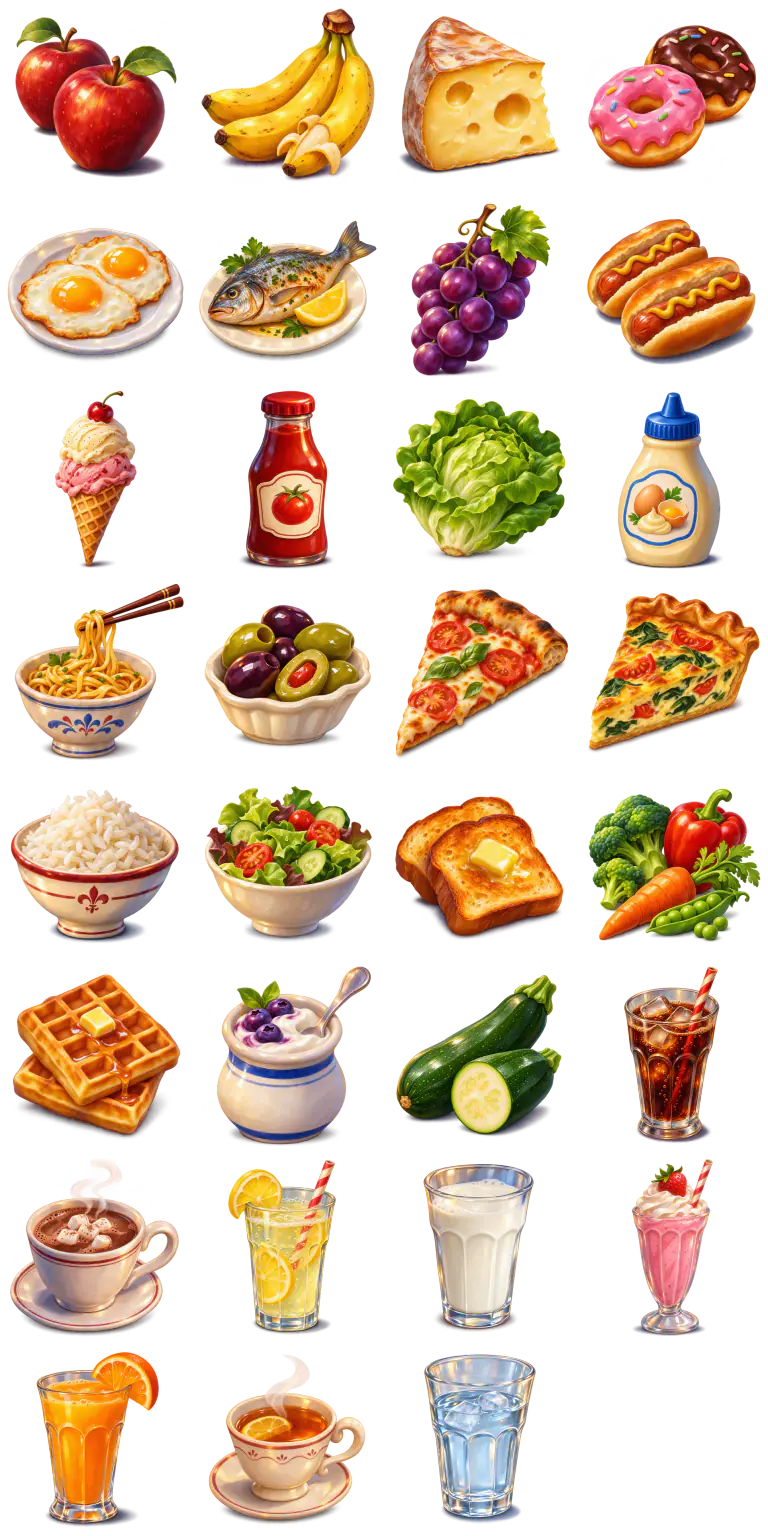
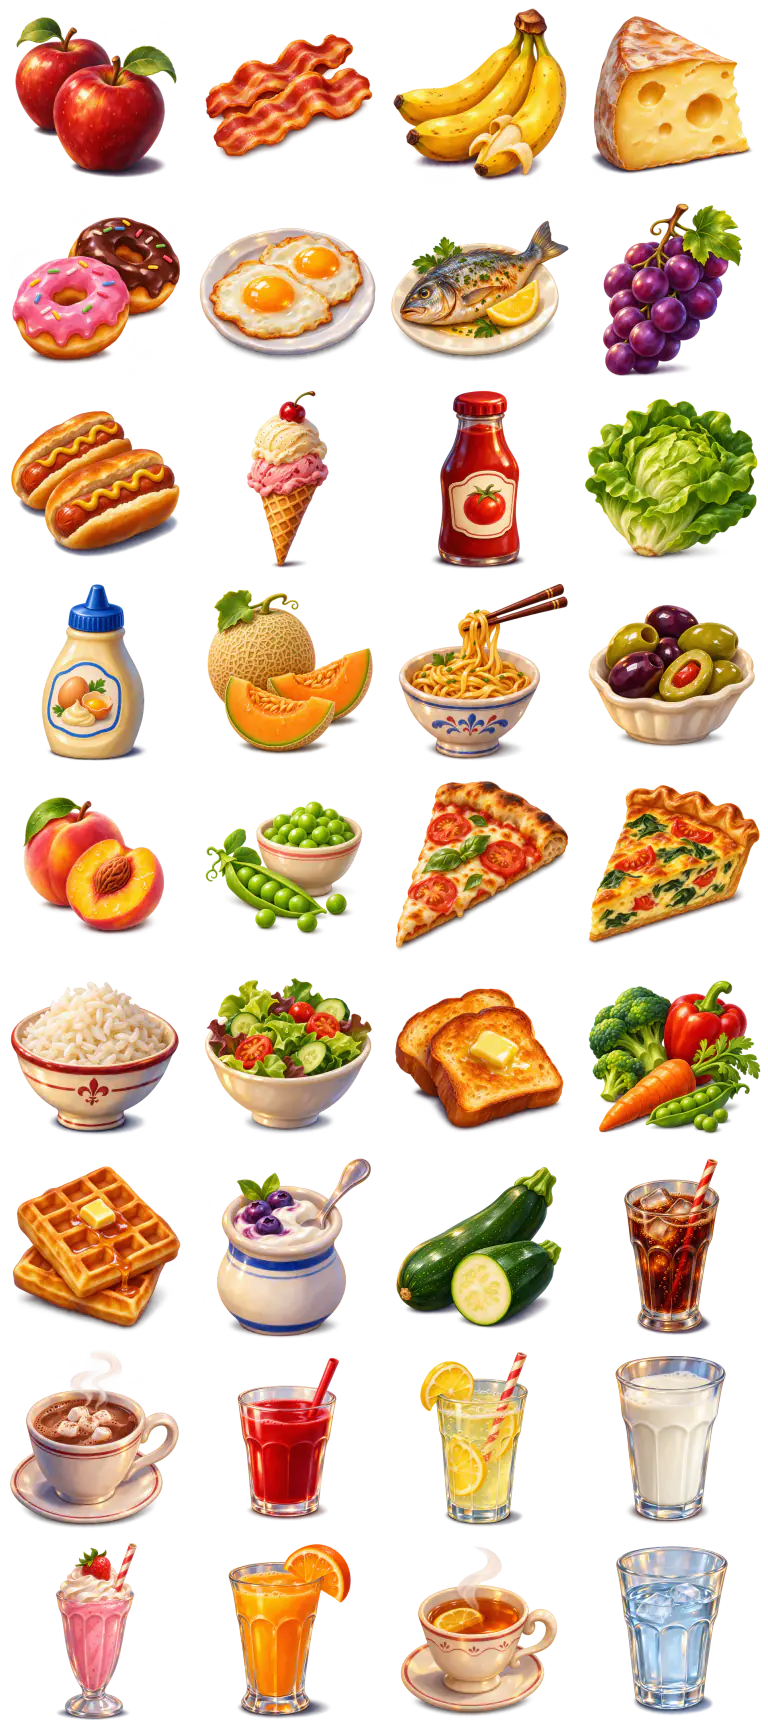
Add selectable Halloween menu section

diff --git a/src/utils/generateOrder.ts b/src/utils/generateOrder.ts
@@ -1,6 +1,20 @@
-import { DRINKS, FOOD, type MenuItem } from '../data/menu'
+import { DRINKS, EXTRA_SECTIONS, FOOD, type MenuItem, type SectionId } from '../data/menu'
 
 export type Order = { food: MenuItem[]; drink: MenuItem }
+
+export function menuForSections(sections: readonly SectionId[]) {
+  const food = [...FOOD]
+  const drinks = [...DRINKS]
+  for (const section of sections) {
+    for (const item of EXTRA_SECTIONS[section].food) {
+      if (!food.some(existing => existing.id === item.id)) food.push(item)
+    }
+    for (const item of EXTRA_SECTIONS[section].drinks) {
+      if (!drinks.some(existing => existing.id === item.id)) drinks.push(item)
+    }
+  }
+  return { food, drinks }
+}
 
 function shuffled<T>(items: readonly T[], random: () => number): T[] {
   const copy = [...items]
@@ -15,15 +29,31 @@ function signature(order: Order): string {
   return [...order.food.map(item => item.id).sort(), order.drink.id].join('|')
 }
 
-export function generateOrder(previous?: Order | null, random: () => number = Math.random): Order {
+export function generateOrder(previous?: Order | null, random: () => number = Math.random, sections: readonly SectionId[] = []): Order {
+  const menu = menuForSections(sections)
   const count = 2 + Math.floor(random() * 3)
-  const food = shuffled(FOOD, random).slice(0, count)
-  let drink = shuffled(DRINKS, random)[0]
+  const food = shuffled(menu.food, random).slice(0, count)
+  let drink = shuffled(menu.drinks, random)[0]
+  const halloweenFood = sections.includes('halloween')
+    ? EXTRA_SECTIONS.halloween.food.filter(item => !FOOD.some(base => base.id === item.id))
+    : []
+  const halloweenDrinks = sections.includes('halloween') ? EXTRA_SECTIONS.halloween.drinks : []
+
+  if (halloweenFood.length && !food.some(item => halloweenFood.some(extra => extra.id === item.id)) &&
+      !halloweenDrinks.some(item => item.id === drink.id)) {
+    const featured = shuffled([...halloweenFood, ...halloweenDrinks], random)[0]
+    if (featured.kind === 'drink') drink = featured
+    else food[0] = featured
+  }
   const order = { food, drink }
 
   // A matching selection is rare, but even then the next press must feel new.
   if (previous && signature(order) === signature(previous)) {
-    drink = shuffled(DRINKS.filter(item => item.id !== previous.drink.id), random)[0]
+    if (halloweenFood.length && !food.some(item => halloweenFood.some(extra => extra.id === item.id))) {
+      food[0] = halloweenFood[0]
+    } else {
+      drink = shuffled(menu.drinks.filter(item => item.id !== previous.drink.id), random)[0]
+    }
   }
   return { food, drink }
 }

diff --git a/src/App.css b/src/App.css
@@ -147,7 +147,15 @@ button { font: inherit; }
 }
 
 .order-item__picture { position: relative; width: 100%; max-width: 160px; aspect-ratio: 1; overflow: hidden; }
-.order-item__picture img { position: absolute; display: block; width: 400%; height: 800%; max-width: none; left: calc(-100% * var(--atlas-column)); top: calc(-100% * var(--atlas-row)); }
+.order-item__picture img { position: absolute; display: block; width: calc(100% * var(--atlas-columns)); height: calc(100% * var(--atlas-rows)); max-width: none; left: calc(-100% * var(--atlas-column)); top: calc(-100% * var(--atlas-row)); }
+
+.section-picker { display: flex; align-items: center; justify-content: center; flex-wrap: wrap; gap: 12px; }
+.section-picker__label { color: #fff4d9; font-size: 13px; font-weight: 800; letter-spacing: .14em; text-shadow: 0 2px 4px #182034; }
+.section-picker__button { min-height: 42px; padding: 7px 17px; display: inline-flex; align-items: center; gap: 10px; border: 2px solid #e9bc80; border-radius: 999px; background: #34243e; color: #fff5de; box-shadow: 0 4px 0 #1b1528; font: 800 16px Georgia, serif; letter-spacing: .09em; cursor: pointer; }
+.section-picker__button span { color: #f3b469; }
+.section-picker__button[aria-pressed="true"] { border-color: #ffe1a7; background: #a64b2d; box-shadow: 0 4px 0 #61281f, 0 0 0 3px rgba(255, 214, 147, .22); }
+.section-picker__button:hover { filter: brightness(1.14); }
+.section-picker__button:focus-visible { outline: 3px solid #fff5d0; outline-offset: 4px; }
 
 .order-action { width: 100%; display: flex; align-items: center; justify-content: center; gap: 25px; }
 .order-action__line { width: min(18vw, 210px); height: 1px; background: linear-gradient(90deg, transparent, #e1bc77, transparent); }
@@ -187,7 +195,7 @@ button { font: inherit; }
   .order-result__items { gap: 8px; }
   .order-item { width: 132px; padding: 8px 5px 10px; gap: 5px; font-size: 15px; }
   .order-item__picture { max-width: 120px; }
-  .game-shell__inner { gap: 18px; }
+  .game-shell__inner { gap: 14px; }
   .order-button { min-height: 62px; font-size: 26px; }
 }
 
@@ -202,7 +210,9 @@ button { font: inherit; }
   .order-result__items { gap: 7px; }
   .order-item { width: 110px; padding: 6px 4px 8px; font-size: 13px; }
   .order-item__picture { max-width: 94px; }
-  .game-shell__inner { gap: 12px; }
+  .game-shell__inner { gap: 9px; }
+  .section-picker__button { min-height: 34px; padding: 4px 12px; font-size: 13px; }
+  .section-picker__label { font-size: 11px; }
   .order-button { min-height: 54px; min-width: 225px; font-size: 22px; }
 }
 

diff --git a/src/App.tsx b/src/App.tsx
@@ -1,13 +1,14 @@
 import { useEffect, useState } from 'react'
 import { OrderResult } from './components/OrderResult'
 import { Waiter } from './components/Waiter'
-import { ORDER_ATLAS_URL } from './data/menu'
+import { EXTRA_SECTIONS, ORDER_ATLAS_URL, type SectionId } from './data/menu'
 import { generateOrder, type Order } from './utils/generateOrder'
 import './App.css'
 
 function App() {
   const [order, setOrder] = useState<Order | null>(null)
   const [orderNumber, setOrderNumber] = useState(0)
+  const [selectedSections, setSelectedSections] = useState<SectionId[]>([])
 
   useEffect(() => {
     const image = new Image()
@@ -16,8 +17,14 @@ function App() {
   }, [])
 
   function handleOrder() {
-    setOrder(previous => generateOrder(previous))
+    setOrder(previous => generateOrder(previous, Math.random, selectedSections))
     setOrderNumber(number => number + 1)
+  }
+
+  function toggleSection(section: SectionId) {
+    setSelectedSections(previous => previous.includes(section)
+      ? previous.filter(value => value !== section)
+      : [...previous, section])
   }
 
   return (
@@ -26,6 +33,21 @@ function App() {
         <Waiter />
         <div className="game-shell__inner">
           <OrderResult order={order} number={orderNumber} />
+          <div className="section-picker" role="group" aria-label="Extra menu sections">
+            <span className="section-picker__label">ADD A SECTION</span>
+            {(Object.keys(EXTRA_SECTIONS) as SectionId[]).map(section => (
+              <button
+                className="section-picker__button"
+                type="button"
+                aria-pressed={selectedSections.includes(section)}
+                onClick={() => toggleSection(section)}
+                key={section}
+              >
+                <span aria-hidden="true">✦</span>
+                {EXTRA_SECTIONS[section].label}
+              </button>
+            ))}
+          </div>
           <div className="order-action">
             <span className="order-action__line" aria-hidden="true" />
             <button className="order-button" type="button" onClick={handleOrder}>

diff --git a/src/data/menu.ts b/src/data/menu.ts
@@ -57,3 +57,33 @@ export const DRINKS: MenuItem[] = drinks.map(([id, name]) => ({
   image: `${import.meta.env.BASE_URL}assets/drinks/${id}.webp`,
   kind: 'drink',
 }))
+
+const halloweenFoods = [
+  ['melon', 'melon'],
+  ['bacon', 'bacon'],
+  ['peas', 'peas'],
+  ['peach', 'peach'],
+] as const
+
+export const HALLOWEEN_FOOD: MenuItem[] = [
+  ...halloweenFoods.map(([id, name]) => ({
+    id,
+    name,
+    image: `${import.meta.env.BASE_URL}assets/food/${id}.webp`,
+    kind: 'food' as const,
+  })),
+  ...FOOD.filter(item => item.id === 'toast'),
+]
+
+export const HALLOWEEN_DRINKS: MenuItem[] = [{
+  id: 'juice',
+  name: 'juice',
+  image: `${import.meta.env.BASE_URL}assets/drinks/juice.webp`,
+  kind: 'drink',
+}]
+
+export const EXTRA_SECTIONS = {
+  halloween: { label: 'HALLOWEEN', food: HALLOWEEN_FOOD, drinks: HALLOWEEN_DRINKS },
+} as const
+
+export type SectionId = keyof typeof EXTRA_SECTIONS

diff --git a/src/components/OrderResult.tsx b/src/components/OrderResult.tsx
@@ -19,7 +19,12 @@ export function OrderResult({ order, number }: { order: Order | null; number: nu
           <div className="order-result__items">
             {[...order.food, order.drink].map(item => {
               const [column, row] = positions[`${item.kind}:${item.id}`]
-              const position = { '--atlas-column': column, '--atlas-row': row } as CSSProperties
+              const position = {
+                '--atlas-column': column,
+                '--atlas-row': row,
+                '--atlas-columns': atlas.columns,
+                '--atlas-rows': atlas.rows,
+              } as CSSProperties
               return <div className="order-item" key={item.id}>
                 <div className="order-item__picture">
                   <img src={ORDER_ATLAS_URL} alt={`${item.name} illustration`} style={position} />

diff --git a/README.md b/README.md
@@ -1,6 +1,6 @@
 # Restaurant
 
-A browser mini-game for children practicing English food and drink words. Press **ORDER** to reveal a new random meal with 2–4 different foods and one drink. All 31 vocabulary items remain in the order pool; only the current order is shown.
+A browser mini-game for children practicing English food and drink words. Press **ORDER** to reveal a new random meal with 2–4 different foods and one drink. The 31 classic vocabulary items remain in the order pool; only the current order is shown.
 
 The game stage is capped at a 4:3 aspect ratio for standard projectors. On widescreen displays it stays centered with side margins; on phones the order card stacks vertically.
 
@@ -15,7 +15,9 @@ Open the local URL printed by Vite (usually `http://localhost:5173/reast-/`). Fo
 
 Run `npm test` to verify the exact vocabulary, local artwork, and random-order rules.
 
-The game uses local artwork and works without an internet connection after dependencies are installed. The bistro backdrop and all order illustrations were generated for this project. A 201 KB WebP atlas is preloaded when the game opens, so pressing ORDER does not fetch separate food images. Small individual WebPs are also kept in `public/assets/`, and the full-resolution PNG originals are in `artwork/source/`. Run `npm run optimize:images` to regenerate the WebPs and atlas after changing the originals. The original SVG menu art remains in the repository as editable source artwork.
+The game uses local artwork and works without an internet connection after dependencies are installed. The bistro backdrop and all order illustrations were generated for this project. A compact WebP atlas is preloaded when the game opens, so pressing ORDER does not fetch separate food images. Small individual WebPs are also kept in `public/assets/`, and the full-resolution PNG originals are in `artwork/source/`. Run `npm run optimize:images` to regenerate the WebPs and atlas after changing the originals. The original SVG menu art remains in the repository as editable source artwork.
+
+Select **HALLOWEEN** to add melon, bacon, peas, toast, peach, and red juice to the random orders. Each Halloween order includes at least one new item from that section. The juice is labeled simply `juice`. Toast shares its existing illustration and is never duplicated in the order pool. Select the button again to use the classic menu only; the choice applies to the next ORDER press.
 
 ## GitHub Pages
 
